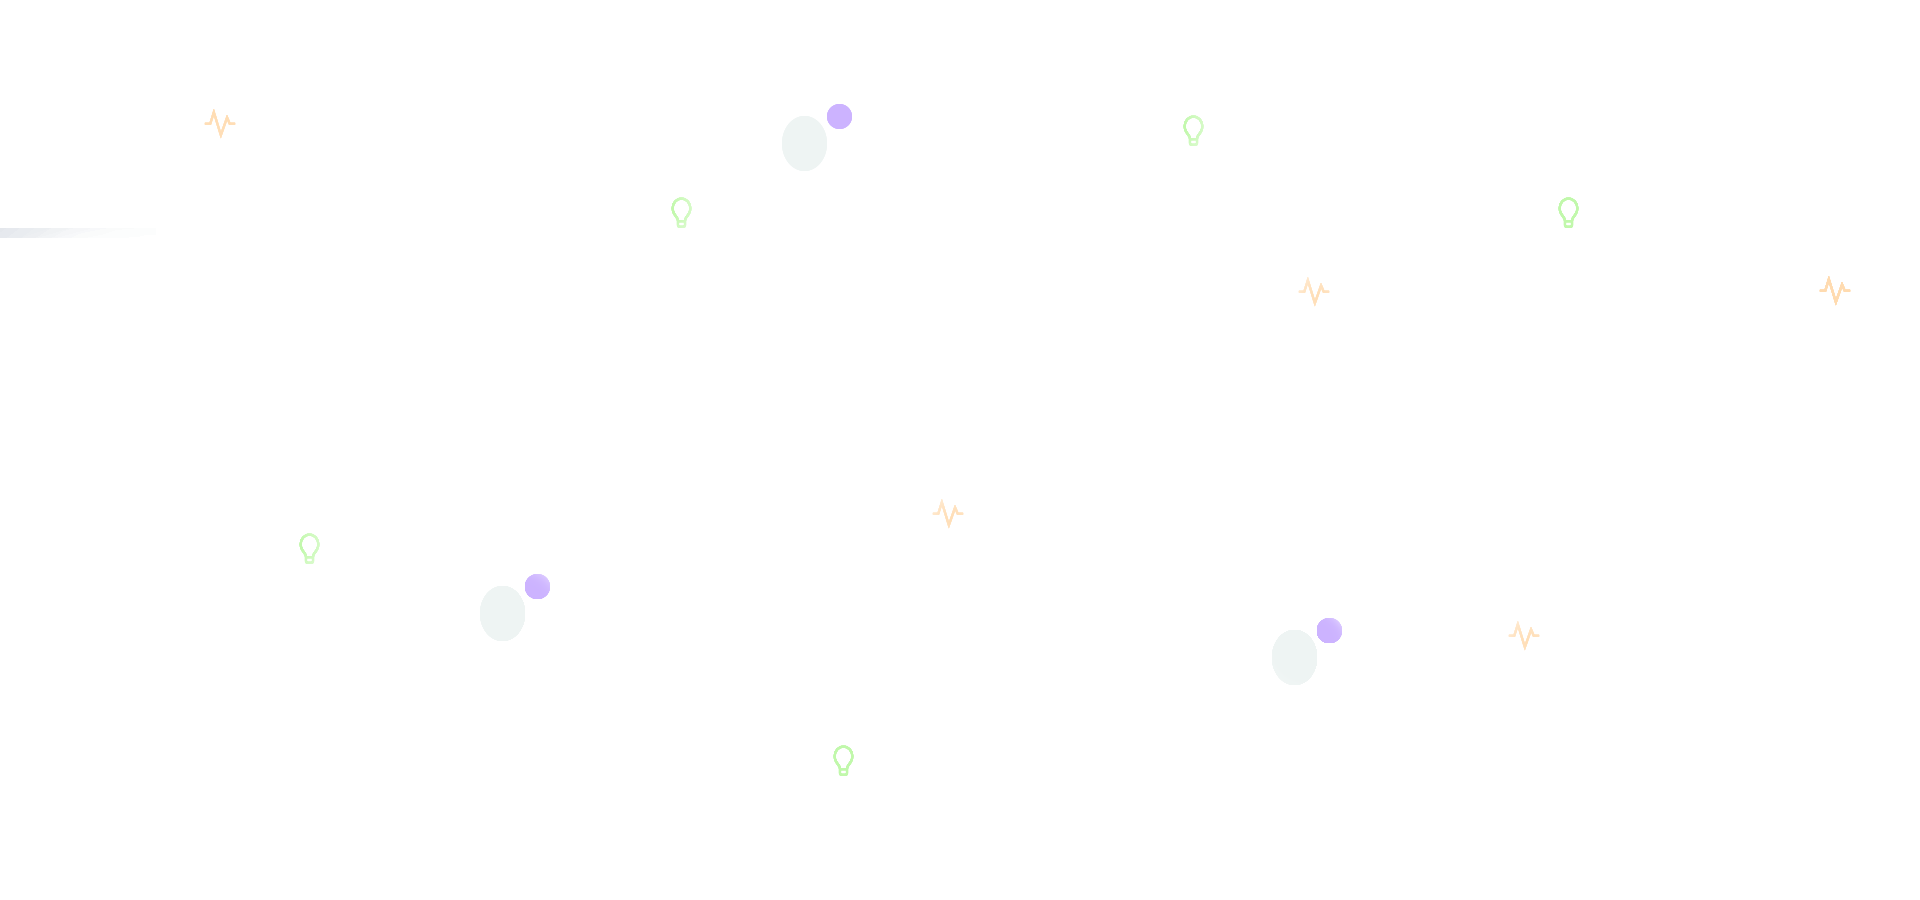
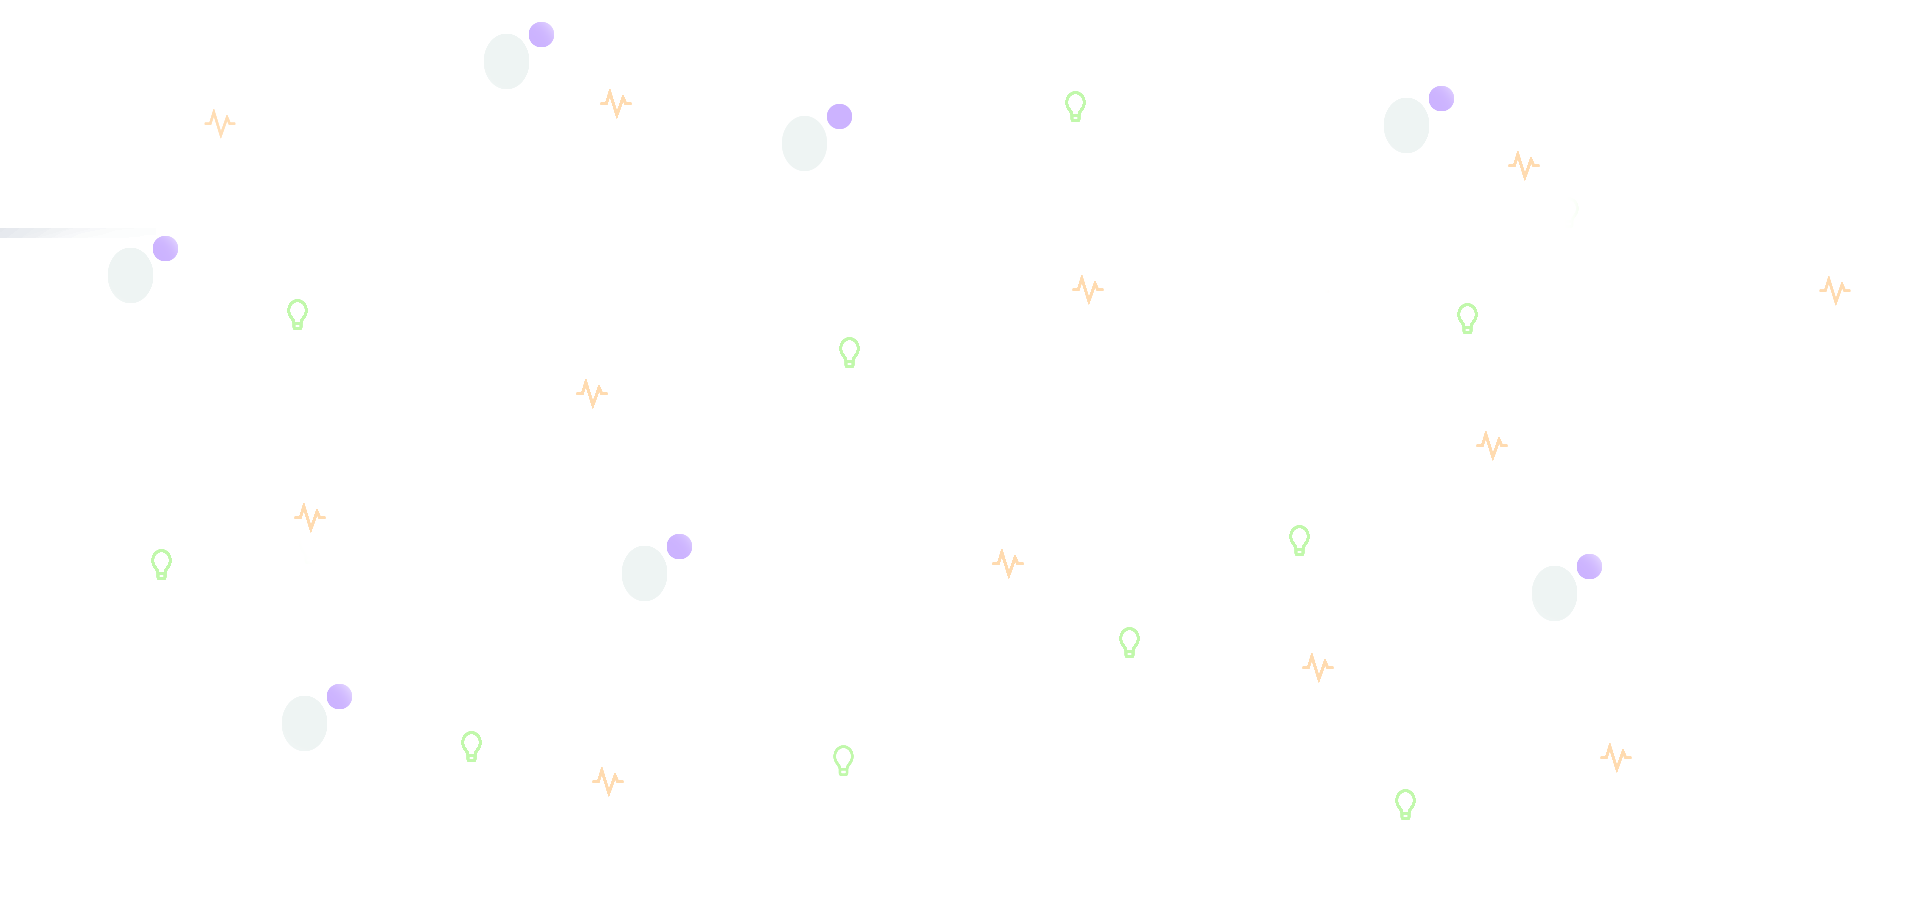
[ADD] image added

diff --git a/css/style.css b/css/style.css
@@ -135,7 +135,7 @@ body {
   height: 100vh;
 }
 #projects {
-  background: url(../img/banner_02.png);
+  background: url(../img/banner/project-banner.png);
 }
 #skills {
   /* background: #a9ddffad; */
